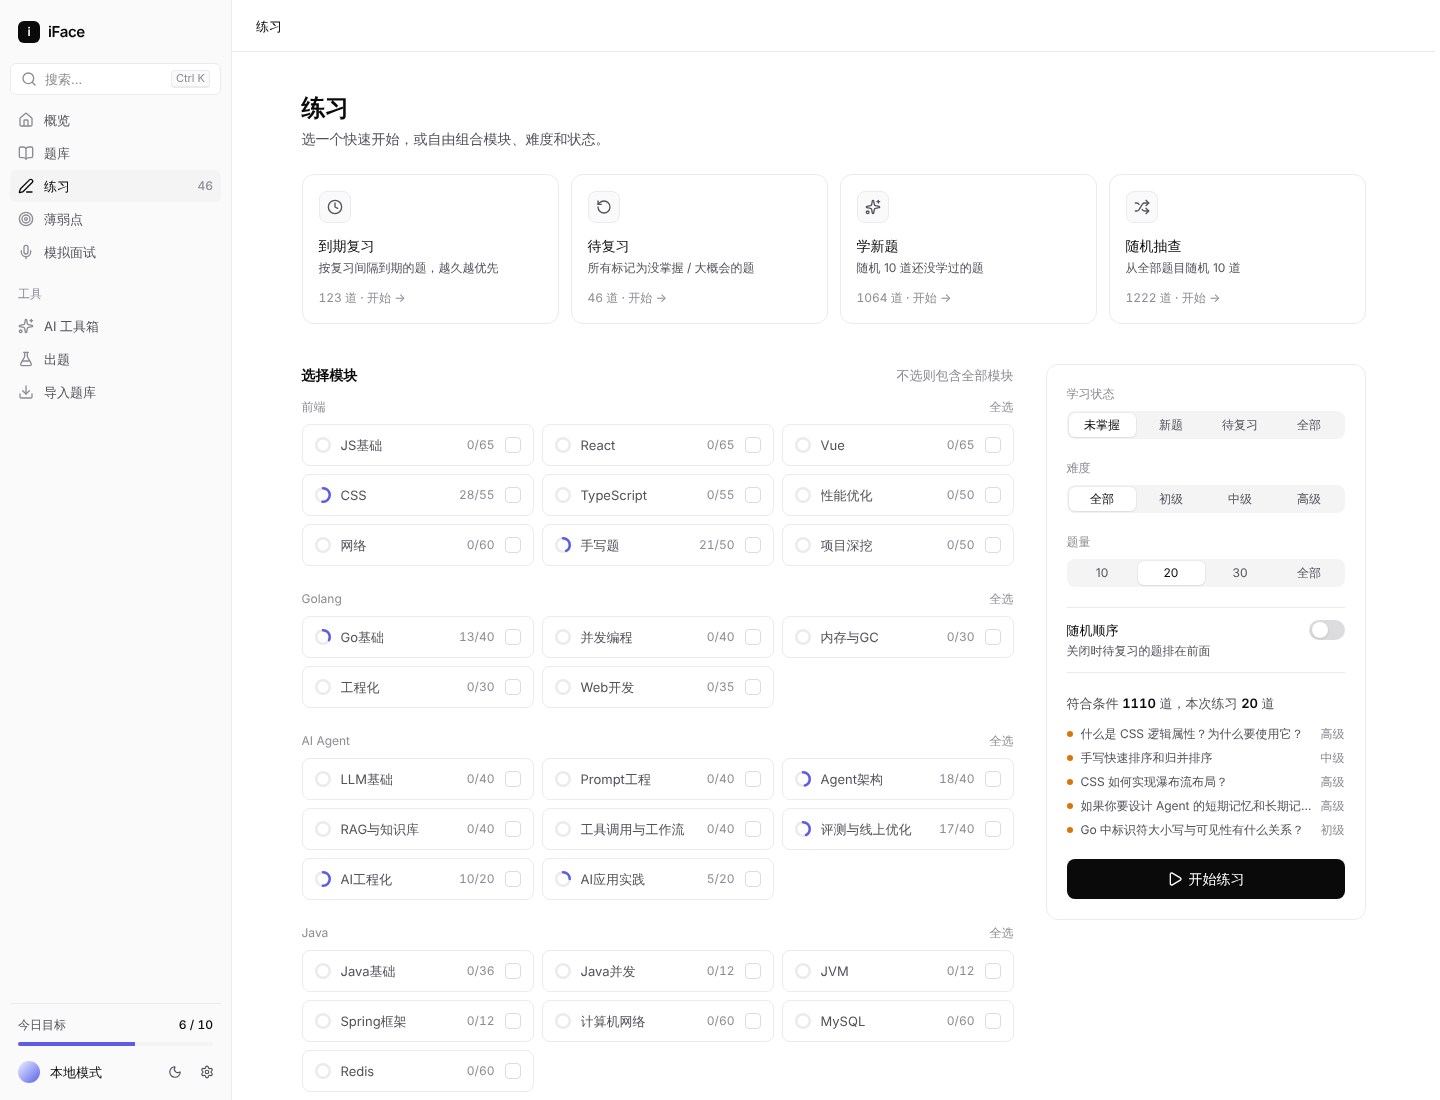
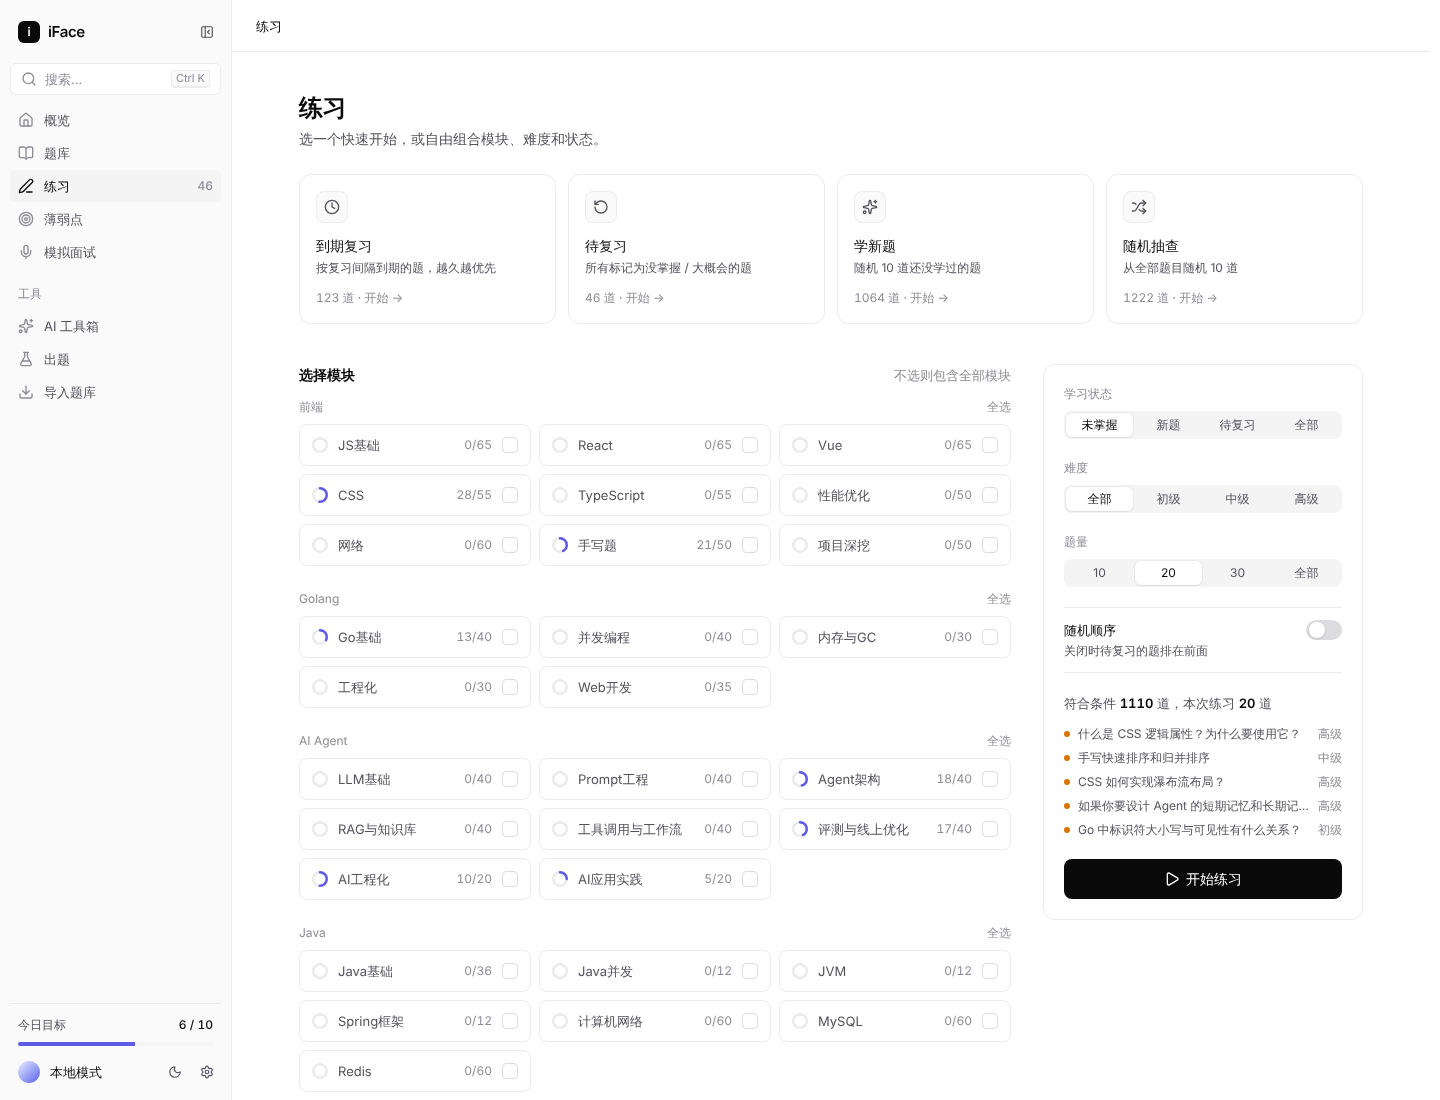
docs: document the side panel, sidebar and shortcuts; refresh screenshots

diff --git a/docs/RELEASE_NOTES_1.5.md b/docs/RELEASE_NOTES_1.5.md
@@ -12,8 +12,12 @@
 - 新增 `⌘K` / `Ctrl K` 命令面板，可以搜索题目、跳转页面、打开设置。
 - 概览页：继续上次、今日目标、统计、今日推荐、活跃度热力图、模块进度、最近笔记。
 - 题库页：分类侧栏、搜索（包含笔记内容）、筛选与排序；筛选状态写在 URL 里，可以分享和回退。
-- 题目详情页：新的题目区和答案卡片，掌握程度按钮吸底；长答案右侧显示目录栏（宽屏），点击跳转并随滚动高亮。
-- AI 助手抽屉、学习检验、Markdown 渲染全部改用新组件和 token 样式。
+- 左侧导航可以拖动调整宽度，拖到最窄或按 `[` 折叠成图标栏（悬停显示名称），宽度和折叠状态会记住。
+- 题目详情页：新的题目区和答案卡片，掌握程度按钮吸底；长答案右侧显示目录栏（空间足够时），点击跳转并随滚动高亮。
+- 笔记和 AI 助手合并为题目详情右侧的**停靠侧栏**（`N` / `A` 切换，`Esc` 关闭）：桌面端与答案并排、不再遮挡内容，宽度可拖动，翻题时保持打开；手机上是底部面板。
+- 笔记改为编辑优先：空笔记打开即可输入，已有笔记先显示渲染结果、点击正文进入编辑，`⌘↵` 预览。
+- AI 对话重新排版：回答以全宽正文显示，快捷指令收进输入框工具栏，清空对话可以撤销。
+- 学习检验、Markdown 渲染全部改用新组件和 token 样式。
 - 设置从 3.6k 行的抽屉改为按 tab 拆分的对话框（学习 / AI / 数据 / 同步），并显示当前版本号。
 - 薄弱点、模拟面试（聊天式面试间 + 评分报告）、导入、出题、AI 工具箱、简历 / JD 诊断、首次引导全部重建。
 
@@ -26,6 +30,8 @@
 
 ### 修复
 
+- 笔记在自动保存的 650ms 等待期内切题、关闭侧栏或刷新页面，最后输入的内容会丢失；现在会立即保存，页面关闭时先暂存到本地、下次打开自动恢复。
+- 打开对话框时页面会向左抖动几个像素（滚动锁定额外加了右边距），已修复；滚动条改用标准 `scrollbar-color` / `scrollbar-width`，并固定预留滚动条位置。
 - 内置题库迁移不再误删自定义题目：以前 Markdown 导入自动生成的 id（例如 `js-001`）可能和内置题 id 撞上，迁移时被当成重复题删除。现在除了 id 还要求模块和题干 / 答案一致。
 - 备份导入、Gist 拉取后，内存中的学习记录会自动刷新，不再显示旧数据。
 - PWA 同源运行时缓存路由此前用 RegExp 匹配完整 URL，永远匹配不上，已改为按 pathname 匹配。
@@ -46,7 +52,7 @@
 ### 数据与兼容性
 
 - IndexedDB：结构和版本号不变。
-- localStorage：键名和格式不变；不再使用 `iface_streak_banner_dismissed_date`（概览页旧横幅已移除，遗留值无影响）。
+- localStorage：已有键名和格式不变；不再使用 `iface_streak_banner_dismissed_date`（概览页旧横幅已移除，遗留值无影响）。新增仅本机生效的界面偏好 `iface_sidebar_width`、`iface_sidebar_collapsed`、`iface_side_panel_width`，以及页面关闭时暂存未保存笔记的 `iface_note_draft`（下次打开写回 IndexedDB 后删除）；这些键不参与备份和同步。
 - 内置题库 JSON：内容不变（1222 道题，29 个文件）。
 - 备份文件、Gist 同步格式：不变，旧备份可以直接导入。
 

diff --git a/docs/SMOKE_RESULT_1.5.0.md b/docs/SMOKE_RESULT_1.5.0.md
@@ -14,8 +14,8 @@
 
 `bun run check:all` 中各子门禁的结果：
 
-- `bun run check`：通过，Biome 检查 213 个文件无错误。
-- `bun run test`：通过，Vitest 25 个文件、118 个用例。
+- `bun run check`：通过，Biome 检查 220 个文件无错误。
+- `bun run test`：通过，Vitest 27 个文件、128 个用例。
 - `bun run check:version`：通过，`package.json`、README 徽章、Roadmap、本记录和设置页版本展示一致。
 - `bun run check:release`：通过。
 - `bun run check:quality-gate`：通过，`check:all` 子门禁顺序、发版脚本和本记录的门禁列表一致。
@@ -30,7 +30,7 @@
 
 额外：
 
-- `bun run test:e2e`：通过，10 个 Playwright smoke 用例。
+- `bun run test:e2e`：通过，11 个 Playwright smoke 用例。
 
 ## 外部服务 Smoke（待补齐）
 
@@ -53,6 +53,10 @@ IFACE_GIST_TOKEN=... bun run smoke:external:gist
 - 学习检验：单选 / 多选、答案解析、结果汇总，亮色和暗色。
 - AI 助手：未配置提示、空状态、流式回答（mock 接口）、Markdown 渲染、重试、清空会话，亮色和暗色。
 - 首次引导只出现一次；主题切换持久化。
+- 左侧导航：拖动调整宽度、拖到最窄折叠、`[` 切换、双击 / Enter 恢复默认、方向键调整，刷新后保持。
+- 右侧停靠侧栏：`N` / `A` 切换笔记与 AI，内容区让出宽度不被遮挡，拖动调整宽度，翻题保持打开，`Esc` 关闭；手机上为底部面板。
+- 笔记：打开即可输入、`⌘↵` 预览、点击正文编辑；输入后立即切题或刷新页面，内容不丢失。
+- 滚动条：打开对话框时页面不再横向抖动。
 
 ## 人工验收（待维护者确认）
 

diff --git a/docs/REFACTOR_PLAN.md b/docs/REFACTOR_PLAN.md
@@ -107,6 +107,8 @@ src/
 - [x] 题目详情（续）：作答框、笔记抽屉、AI 抽屉、模块抽屉、批注工具条换成新组件
 - [x] 题目详情（收尾）：长答案右侧目录栏（≥1440px）；`QuestionDetailPage.tsx` 从 1.6k 行拆到约 800 行（`useAnswerOverride` / `useAnswerAnnotations` / `useDetailHotkeys`、`sessionNav.ts` 有测试）
 - [x] AI 对话、学习检验、Markdown 渲染改用 token 类名（`aiChat.tsx`、`learningCheck.tsx`、`styles/markdown.css`），`index.css` 中的旧 CSS 变量别名已删除
+- [x] 交互迭代：左侧导航可拖动宽度、可折叠为图标栏（`[`，状态持久化）；笔记与 AI 合并为题目详情右侧可停靠、可拖动宽度的侧栏（移动端为底部面板），笔记编辑优先并修复自动保存丢字；目录栏改用容器查询，自动适应导航和侧栏宽度
+- [x] 滚动条：`scrollbar-gutter: stable` + 标准 `scrollbar-color`，修复打开对话框时 Radix 滚动锁定导致的横向抖动；面板内滚动 `overscroll-behavior: contain`
 - [x] 练习：快速开始（到期复习 / 待复习 / 学新题 / 随机）、模块选择、题量与随机顺序
 - [x] 间隔复习：由现有记录字段推算（待复习次日、已掌握 7/14/30/60 天），不改存储
 - [x] 设置：改为全局对话框，按 tab 拆分并重建（学习 / AI / 数据 / 同步）

diff --git a/AGENTS.md b/AGENTS.md
@@ -4,7 +4,7 @@
 
 iFace is a Vite React 19 + TypeScript app. Main code lives in `src/`:
 
-- `src/app/` holds the app shell (sidebar, mobile nav), error boundary and PWA update prompt.
+- `src/app/` holds the app shell (resizable / collapsible sidebar, mobile nav), error boundary and PWA update prompt. Panel sizing rules live in `src/app/layout.ts`; use `ResizeHandle` from `src/ui` for any new resizable panel and register new localStorage keys in `src/lib/storage.ts`.
 - `src/features/<feature>/` holds route screens and their logic, e.g. `dashboard/`, `question-list/`, `question-detail/`, `practice/`, `settings/`. Keep pure logic in a sibling `*.ts` module with a `*.test.ts` next to it, and keep the page component focused on layout.
 - `src/ui/` is the v1.5 component library (Radix primitives + Tailwind, variants via `cva`). Use it for all UI.
 - `src/components/ui/` holds the Markdown renderer (element styles in `src/styles/markdown.css`) and the speech input button; do not add new components there.
